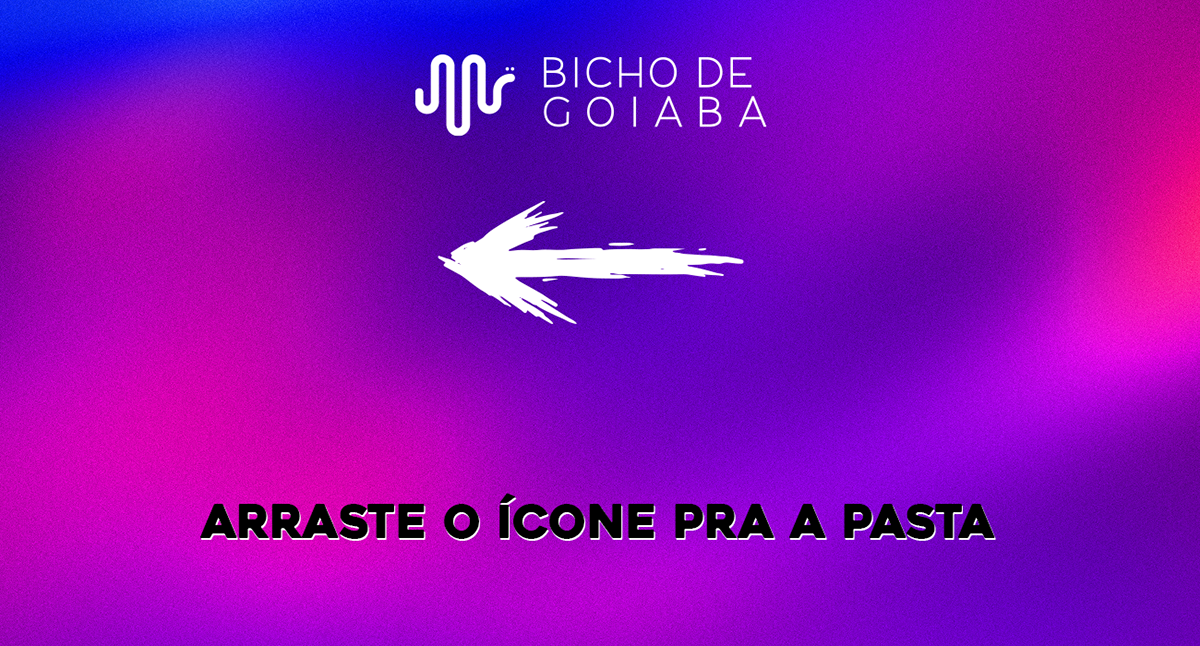
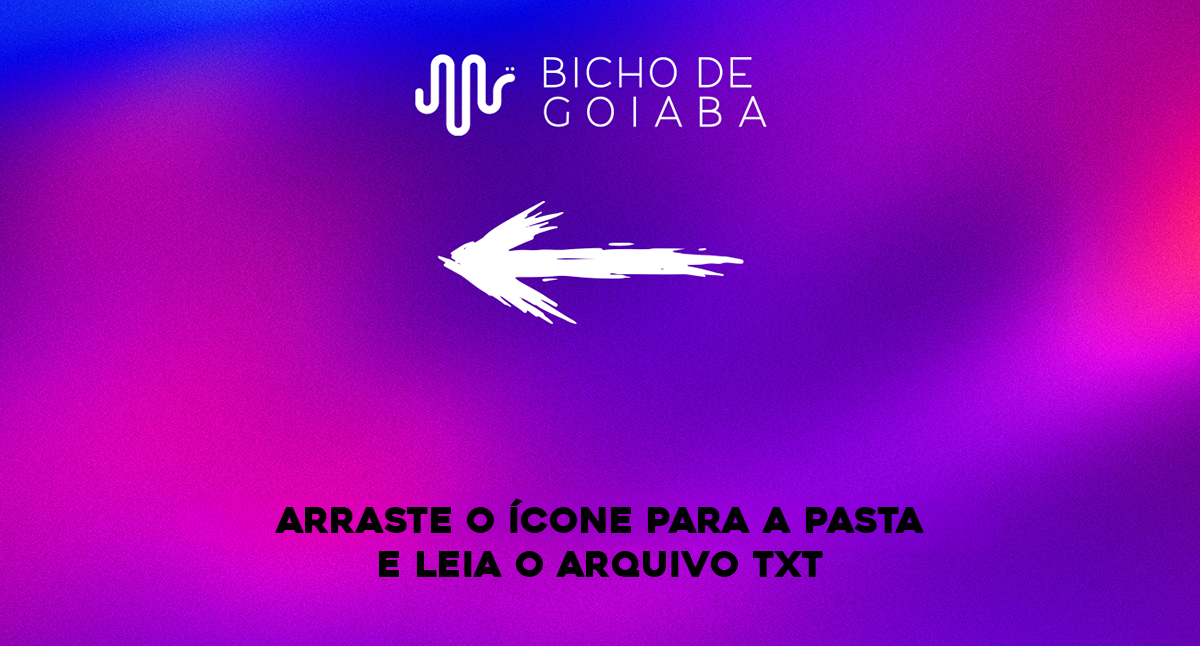
feat: add native menu bar with About, updates, language, and help
- macOS: items in Apple menu (About, Check for Updates, Language)
- Help menu with Website BDG and Portal do cliente links
- Custom About dialog with BDG rec logo and version
- Custom Update dialog with BDG rec logo and branded buttons
- UpdateChecker.forceCheck() for manual update checks from menu
- Bilingual menu strings (PT/EN)
- Updated DMG background image

Changed region(s): [[0.1542, 0.743, 0.8325, 0.8978]]

diff --git a/src/MainComponent.cpp b/src/MainComponent.cpp
@@ -1,9 +1,31 @@
 #include "MainComponent.h"
 #include "Strings.h"
+#include "BinaryData.h"
 
 MainComponent::MainComponent()
 {
     setLookAndFeel(&bdgLookAndFeel);
+
+    // Native menu bar
+#if JUCE_MAC
+    {
+        juce::PopupMenu appleMenu;
+        appleMenu.addItem(idAbout, Strings::get().menuAbout);
+        appleMenu.addItem(idCheckUpdates, Strings::get().menuCheckUpdates);
+        appleMenu.addSeparator();
+
+        juce::PopupMenu langMenu;
+        bool isPt = (Strings::getLanguage() == Language::PT);
+        langMenu.addItem(idLangPT, "PT", true, isPt);
+        langMenu.addItem(idLangEN, "EN", true, !isPt);
+        appleMenu.addSubMenu(Strings::get().menuLanguage, langMenu);
+
+        juce::MenuBarModel::setMacMainMenu(this, &appleMenu);
+    }
+#elif JUCE_WINDOWS
+    menuBarComponent = std::make_unique<juce::MenuBarComponent>(this);
+    addAndMakeVisible(menuBarComponent.get());
+#endif
 
     // Task 18 – init ApplicationProperties
     {
@@ -39,6 +61,7 @@ MainComponent::MainComponent()
         inputPanel.repaint();
         recordingPanel.repaint();
         outputPanel.updateLanguage();
+        menuItemsChanged();
         saveSettings();
     };
 
@@ -115,6 +138,9 @@ MainComponent::MainComponent()
 
 MainComponent::~MainComponent()
 {
+#if JUCE_MAC
+    juce::MenuBarModel::setMacMainMenu(nullptr);
+#endif
     audioEngine.removeListener(this);
     setLookAndFeel(nullptr);
 
@@ -452,10 +478,16 @@ void MainComponent::resized()
     const int gap          = 12;
 
     // Header: full width
+#if JUCE_WINDOWS
+    const int menuBarHeight = 24;
+    if (menuBarComponent)
+        menuBarComponent->setBounds(0, 0, w, menuBarHeight);
+    headerBar.setBounds(0, menuBarHeight, w, headerHeight);
+    const int contentY = menuBarHeight + headerHeight + padding;
+#else
     headerBar.setBounds(0, 0, w, headerHeight);
-
-    // Three columns below header
     const int contentY = headerHeight + padding;
+#endif
     const int contentH = h - contentY - padding;
     const int totalGap = gap * 2;
     const int colW     = (w - padding * 2 - totalGap) / 3;
@@ -477,18 +509,209 @@ void MainComponent::showUpdateDialog(const juce::String& newVersion)
     auto currentVersion = juce::String(JUCE_APPLICATION_VERSION_STRING);
     auto body = s.updateAvailableBody
                     .replace("%s", newVersion, false);
-    // Replace second %s with current version
     body = body.replace("%s", currentVersion, false);
 
-    auto options = juce::MessageBoxOptions()
-                       .withTitle(s.updateAvailableTitle)
-                       .withMessage(body)
-                       .withButton(s.updateDownload)
-                       .withButton(s.updateIgnore)
-                       .withIconType(juce::MessageBoxIconType::InfoIcon);
+    auto* window = new juce::DialogWindow::LaunchOptions();
+    auto* content = new juce::Component();
+    content->setSize(320, 280);
 
-    juce::AlertWindow::showAsync(options, [](int result) {
-        if (result == 1) // "Download" button
-            juce::URL("https://rec.bdg.fm").launchInDefaultBrowser();
-    });
+    // Logo
+    auto logo = juce::ImageCache::getFromMemory(
+        BinaryData::logobdgrec_png, BinaryData::logobdgrec_pngSize);
+    auto* logoComp = new juce::ImageComponent();
+    logoComp->setImage(logo, juce::RectanglePlacement::centred);
+    logoComp->setBounds(60, 20, 200, 80);
+    content->addAndMakeVisible(logoComp);
+
+    // Message
+    auto* msgLabel = new juce::Label("msg", body);
+    msgLabel->setFont(juce::FontOptions().withHeight(14.0f));
+    msgLabel->setColour(juce::Label::textColourId, BdgColours::textPrimary);
+    msgLabel->setJustificationType(juce::Justification::centred);
+    msgLabel->setBounds(20, 115, 280, 60);
+    content->addAndMakeVisible(msgLabel);
+
+    // Download button
+    auto* downloadBtn = new juce::TextButton(s.updateDownload);
+    downloadBtn->setColour(juce::TextButton::buttonColourId, BdgColours::primary);
+    downloadBtn->setColour(juce::TextButton::textColourOffId, juce::Colours::white);
+    downloadBtn->setMouseCursor(juce::MouseCursor::PointingHandCursor);
+    downloadBtn->setBounds(40, 195, 110, 30);
+    downloadBtn->onClick = [downloadBtn]() {
+        juce::URL("https://rec.bdg.fm").launchInDefaultBrowser();
+        if (auto* dw = downloadBtn->findParentComponentOfClass<juce::DialogWindow>())
+            dw->closeButtonPressed();
+    };
+    content->addAndMakeVisible(downloadBtn);
+
+    // Ignore button
+    auto* ignoreBtn = new juce::TextButton(s.updateIgnore);
+    ignoreBtn->setColour(juce::TextButton::buttonColourId, BdgColours::bgInput);
+    ignoreBtn->setColour(juce::TextButton::textColourOffId, BdgColours::textPrimary);
+    ignoreBtn->setMouseCursor(juce::MouseCursor::PointingHandCursor);
+    ignoreBtn->setBounds(170, 195, 110, 30);
+    ignoreBtn->onClick = [ignoreBtn]() {
+        if (auto* dw = ignoreBtn->findParentComponentOfClass<juce::DialogWindow>())
+            dw->closeButtonPressed();
+    };
+    content->addAndMakeVisible(ignoreBtn);
+
+    window->content.setOwned(content);
+    window->dialogTitle = s.updateAvailableTitle;
+    window->dialogBackgroundColour = BdgColours::bgPanel;
+    window->escapeKeyTriggersCloseButton = true;
+    window->useNativeTitleBar = true;
+    window->resizable = false;
+
+    window->launchAsync();
+}
+
+//==============================================================================
+// MenuBarModel
+//==============================================================================
+juce::StringArray MainComponent::getMenuBarNames()
+{
+    auto& s = Strings::get();
+#if JUCE_MAC
+    return { s.menuHelp };
+#else
+    return { s.menuBdgRec, s.menuHelp };
+#endif
+}
+
+juce::PopupMenu MainComponent::getMenuForIndex(int topLevelMenuIndex, const juce::String&)
+{
+    auto& s = Strings::get();
+    juce::PopupMenu menu;
+
+#if JUCE_MAC
+    // On macOS, index 0 = Help (BDG rec items are in the Apple menu)
+    if (topLevelMenuIndex == 0)
+    {
+        menu.addItem(idWebsite, s.menuWebsite);
+        menu.addItem(idPortal, s.menuPortal);
+    }
+#else
+    if (topLevelMenuIndex == 0) // BDG rec
+    {
+        menu.addItem(idAbout, s.menuAbout);
+        menu.addItem(idCheckUpdates, s.menuCheckUpdates);
+        menu.addSeparator();
+
+        juce::PopupMenu langMenu;
+        bool isPt = (Strings::getLanguage() == Language::PT);
+        langMenu.addItem(idLangPT, "PT", true, isPt);
+        langMenu.addItem(idLangEN, "EN", true, !isPt);
+        menu.addSubMenu(s.menuLanguage, langMenu);
+
+        menu.addSeparator();
+        menu.addItem(idQuit, s.menuQuit);
+    }
+    else if (topLevelMenuIndex == 1) // Help
+    {
+        menu.addItem(idWebsite, s.menuWebsite);
+        menu.addItem(idPortal, s.menuPortal);
+    }
+#endif
+
+    return menu;
+}
+
+void MainComponent::menuItemSelected(int menuItemID, int)
+{
+    switch (menuItemID)
+    {
+        case idAbout:
+            showAboutDialog();
+            break;
+        case idCheckUpdates:
+            updateChecker.forceCheck();
+            break;
+        case idLangPT:
+            Strings::setLanguage(Language::PT);
+            menuItemsChanged();
+            headerBar.repaint();
+            inputPanel.repaint();
+            recordingPanel.repaint();
+            outputPanel.updateLanguage();
+            saveSettings();
+            break;
+        case idLangEN:
+            Strings::setLanguage(Language::EN);
+            menuItemsChanged();
+            headerBar.repaint();
+            inputPanel.repaint();
+            recordingPanel.repaint();
+            outputPanel.updateLanguage();
+            saveSettings();
+            break;
+        case idQuit:
+            juce::JUCEApplication::getInstance()->systemRequestedQuit();
+            break;
+        case idWebsite:
+            juce::URL("https://www.bichodegoiaba.com.br").launchInDefaultBrowser();
+            break;
+        case idPortal:
+            juce::URL("https://cliente.bichodegoiaba.com.br/").launchInDefaultBrowser();
+            break;
+        default:
+            break;
+    }
+}
+
+void MainComponent::showAboutDialog()
+{
+    auto& s = Strings::get();
+    auto version = juce::String("v") + JUCE_APPLICATION_VERSION_STRING;
+
+    auto* window = new juce::DialogWindow::LaunchOptions();
+
+    auto* content = new juce::Component();
+    content->setSize(320, 280);
+
+    // Logo
+    auto logo = juce::ImageCache::getFromMemory(
+        BinaryData::logobdgrec_png, BinaryData::logobdgrec_pngSize);
+
+    auto* logoComp = new juce::ImageComponent();
+    logoComp->setImage(logo, juce::RectanglePlacement::centred);
+    logoComp->setBounds(60, 20, 200, 80);
+    content->addAndMakeVisible(logoComp);
+
+    // Version
+    auto* versionLabel = new juce::Label("version", version);
+    versionLabel->setFont(juce::FontOptions().withHeight(13.0f));
+    versionLabel->setColour(juce::Label::textColourId, BdgColours::textMuted);
+    versionLabel->setJustificationType(juce::Justification::centred);
+    versionLabel->setBounds(0, 108, 320, 20);
+    content->addAndMakeVisible(versionLabel);
+
+    // Description
+    auto* descLabel = new juce::Label("desc", s.aboutBody);
+    descLabel->setFont(juce::FontOptions().withHeight(13.0f));
+    descLabel->setColour(juce::Label::textColourId, BdgColours::textPrimary);
+    descLabel->setJustificationType(juce::Justification::centred);
+    descLabel->setBounds(20, 135, 280, 80);
+    content->addAndMakeVisible(descLabel);
+
+    // OK button
+    auto* okBtn = new juce::TextButton("OK");
+    okBtn->setColour(juce::TextButton::buttonColourId, BdgColours::primary);
+    okBtn->setColour(juce::TextButton::textColourOffId, juce::Colours::white);
+    okBtn->setMouseCursor(juce::MouseCursor::PointingHandCursor);
+    okBtn->setBounds(110, 230, 100, 30);
+    okBtn->onClick = [okBtn]() {
+        if (auto* dw = okBtn->findParentComponentOfClass<juce::DialogWindow>())
+            dw->closeButtonPressed();
+    };
+    content->addAndMakeVisible(okBtn);
+
+    window->content.setOwned(content);
+    window->dialogTitle = s.menuAbout;
+    window->dialogBackgroundColour = BdgColours::bgPanel;
+    window->escapeKeyTriggersCloseButton = true;
+    window->useNativeTitleBar = true;
+    window->resizable = false;
+
+    window->launchAsync();
 }

diff --git a/src/Strings.h b/src/Strings.h
@@ -24,6 +24,11 @@ struct StringTable
     juce::String salvo, salvoNaPasta;
     juce::String erroProcessamento, erroDesconhecido;
     juce::String updateAvailableTitle, updateAvailableBody, updateDownload, updateIgnore;
+    // Menu bar
+    juce::String menuBdgRec, menuHelp;
+    juce::String menuAbout, menuCheckUpdates, menuLanguage, menuQuit;
+    juce::String menuWebsite, menuPortal;
+    juce::String aboutBody;
 };
 
 namespace Strings
@@ -79,6 +84,16 @@ namespace Strings
         juce::CharPointer_UTF8 ("Nova vers\xc3\xa3" "o %s dispon\xc3\xad" "vel.\nVers\xc3\xa3" "o atual: %s."),
         "Baixar",
         "Ignorar",
+        // Menu bar
+        "BDG rec",
+        "Ajuda",
+        "Sobre o BDG rec",
+        juce::CharPointer_UTF8 ("Buscar atualiza\xc3\xa7\xc3\xb5" "es..."),
+        "Idioma",
+        "Sair",
+        "Website BDG",
+        "Portal do cliente",
+        juce::CharPointer_UTF8 ("Gravador de \xc3\xa1" "udio profissional\npara podcasts e longas grava\xc3\xa7\xc3\xb5" "es.\n\nBicho de Goiaba\nwww.bichodegoiaba.com.br"),
     };
 
     // English table
@@ -117,6 +132,16 @@ namespace Strings
         "New version %s available.\nCurrent version: %s.",
         "Download",
         "Ignore",
+        // Menu bar
+        "BDG rec",
+        "Help",
+        "About BDG rec",
+        "Check for updates...",
+        "Language",
+        "Quit",
+        "BDG Website",
+        "Client portal",
+        "Professional audio recorder\nfor podcasts and long recordings.\n\nBicho de Goiaba\nwww.bichodegoiaba.com.br",
     };
 
     // Current language (default: Portuguese)

diff --git a/src/MainComponent.h b/src/MainComponent.h
@@ -13,6 +13,7 @@
 #include "AnalyticsReporter.h"
 
 class MainComponent : public juce::Component,
+                      public juce::MenuBarModel,
                       public AudioEngine::Listener
 {
 public:
@@ -61,6 +62,28 @@ private:
     void loadSettings();
 
     void showUpdateDialog(const juce::String& newVersion);
+
+    // MenuBarModel
+    juce::StringArray getMenuBarNames() override;
+    juce::PopupMenu getMenuForIndex(int topLevelMenuIndex, const juce::String& menuName) override;
+    void menuItemSelected(int menuItemID, int topLevelMenuIndex) override;
+
+    void showAboutDialog();
+
+#if JUCE_WINDOWS
+    std::unique_ptr<juce::MenuBarComponent> menuBarComponent;
+#endif
+
+    enum MenuIDs
+    {
+        idAbout = 1,
+        idCheckUpdates,
+        idLangPT,
+        idLangEN,
+        idQuit,
+        idWebsite,
+        idPortal
+    };
 
     JUCE_DECLARE_NON_COPYABLE_WITH_LEAK_DETECTOR(MainComponent)
 };

diff --git a/src/UpdateChecker.cpp b/src/UpdateChecker.cpp
@@ -26,6 +26,13 @@ void UpdateChecker::checkIfDue(juce::ApplicationProperties& props,
     startThread(juce::Thread::Priority::low);
 }
 
+void UpdateChecker::forceCheck()
+{
+    if (isThreadRunning())
+        return; // already checking
+    startThread(juce::Thread::Priority::low);
+}
+
 void UpdateChecker::run()
 {
     auto url = juce::URL("https://api.github.com/repos/rbontempo/bdg-rec/releases/latest");

diff --git a/src/UpdateChecker.h b/src/UpdateChecker.h
@@ -15,6 +15,9 @@ public:
     void checkIfDue(juce::ApplicationProperties& props,
                     std::function<void(juce::String newVersion)> onUpdateAvailable);
 
+    /// Manual check triggered from menu — bypasses 7-day interval.
+    void forceCheck();
+
 private:
     void run() override;
 
